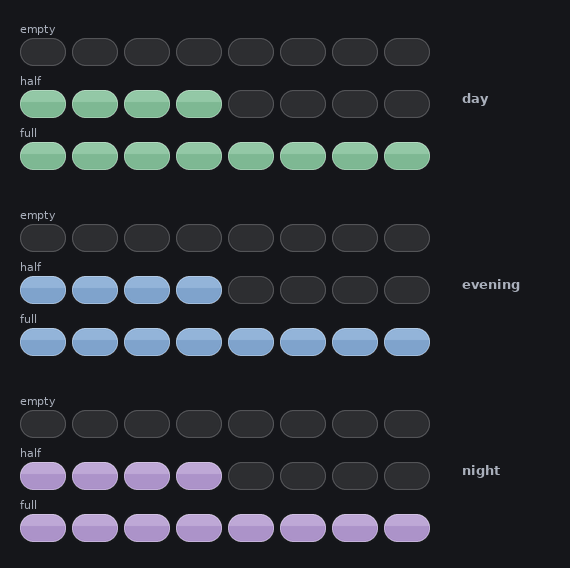
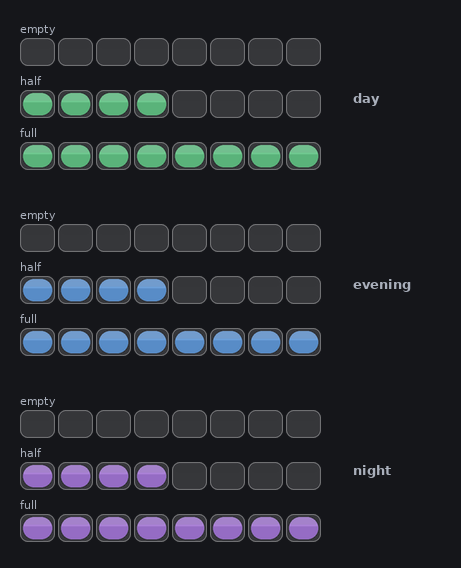
palette: v2 — more saturated fills, glassier glass, shared shape tokens
User review of v1: pills closer and more square, colours more vivid,
look glassier. Shape moves into tokens.json as ratios (aspect, gap,
corner, inset) so all platforms share one design. Preview renderer
now mirrors the platform renderers exactly (inset fill capsule, sheen
band, specular streak) and is driven by the same tokens.

diff --git a/palette/render_preview.py b/palette/render_preview.py
@@ -1,24 +1,33 @@
 #!/usr/bin/env python3
 """Render Thirds palette previews from tokens.json for visual review.
 
-Draws each period's 8-section bar in three fill states (empty, half, full),
-on both a dark and a light background, using the glass/fill/sheen tokens.
+Mirrors exactly how the platform widgets draw: glass pill (body + hairline
+rim, rounded by shape.cornerRatio) with an inset rounded fill capsule,
+sheen band on the fill's top and a specular streak on every pill.
+Geometry comes from tokens.json "shape" ratios (aspect, gapRatio,
+cornerRatio, fillInsetRatio), so this preview *is* the design under review.
+
+Draws each period's 8-section bar in three fill states (empty, half, full)
+on both a dark and a light background.
 Output: palette/preview-dark.png and palette/preview-light.png
 """
 import json
 import re
 from pathlib import Path
-from PIL import Image, ImageDraw, ImageFont
+from PIL import Image, ImageChops, ImageDraw, ImageFont
 
 HERE = Path(__file__).parent
 TOKENS = json.loads((HERE / "tokens.json").read_text())
+SHAPE = TOKENS["shape"]
 
 SECTIONS = 8
 PILL_H = 28
-PILL_W = 46
-GAP = 6
+PILL_W = round(PILL_H * SHAPE["aspect"])
+GAP = max(1, round(PILL_W * SHAPE["gapRatio"]))
+RADIUS = round(PILL_H * SHAPE["cornerRatio"])
+INSET = round(PILL_H * SHAPE["fillInsetRatio"])
 PAD = 20
-ROW_GAP = 30            # vertical gap between fill-state rows
+ROW_GAP = 30
 LABEL_H = 18
 
 BG = {"dark": "#15161A", "light": "#EDF0F4"}
@@ -44,37 +53,43 @@ def font(size, bold=False):
     return ImageFont.load_default()
 
 
-def make_pill(pal, glass, hair, fill, sheen, frac):
-    """Render one section pill at scale=3 as an RGBA image, then downscale.
-
-    frac: 0 = empty glass, 1 = fully filled, fraction = partial from left.
-    """
-    s = 3  # supersample factor
+def make_pill(glass, hair, fill, sheen, edge, frac):
+    """One pill at 3x supersampling, drawn like the platform renderers."""
+    s = 3
     W, H = PILL_W * s, PILL_H * s
-    r = (PILL_H // 2) * s
+    r = RADIUS * s
+    inset = INSET * s
     im = Image.new("RGBA", (W, H), (0, 0, 0, 0))
     d = ImageDraw.Draw(im, "RGBA")
     box = [0, 0, W - 1, H - 1]
 
-    # base glass
+    # glass body + hairline rim
     d.rounded_rectangle(box, radius=r, fill=glass, outline=hair, width=1 * s)
 
+    # inset fill capsule (left-anchored, grows with frac)
     if frac > 0:
-        # fill region (left portion), clipped to the pill
-        fill_w = int(W * min(frac, 1.0))
-        clip = Image.new("L", (W, H), 0)
-        ImageDraw.Draw(clip).rounded_rectangle(box, radius=r, fill=255)
-        colour = Image.new("RGBA", (W, H), (0, 0, 0, 0))
-        cd = ImageDraw.Draw(colour)
-        cd.rectangle([0, 0, fill_w, H], fill=fill)
-        # glassy sheen band over the top ~42% of the filled area
-        cd.rectangle([0, 0, fill_w, int(H * 0.42)], fill=sheen)
-        im.paste(colour, (0, 0), clip)
+        inner_w = (W - 2 * inset) * min(frac, 1.0)
+        inner = [inset, inset, inset + max(inner_w, inset), H - inset]
+        ir = min((H - 2 * inset) // 2, inner_w / 2)
+        cd = ImageDraw.Draw(im, "RGBA")
+        cd.rounded_rectangle(inner, radius=ir, fill=fill)
 
-        # edge line at the leading fill boundary
-        d.rounded_rectangle(box, radius=r, outline=None)
-        if 0 < frac < 1 and fill_w < W - s:
-            d.line([fill_w, s, fill_w, H - s], fill=sheen, width=1 * s)
+        # sheen band on the fill capsule's top (alpha-composite, clipped)
+        band_h = int((H - 2 * inset) * SHAPE["sheenFraction"])
+        band = Image.new("RGBA", (W, H), (0, 0, 0, 0))
+        ImageDraw.Draw(band).rectangle([0, 0, W, inset + band_h], fill=sheen)
+        clip = Image.new("L", (W, H), 0)
+        ImageDraw.Draw(clip).rounded_rectangle(inner, radius=ir, fill=255)
+        band.putalpha(ImageChops.multiply(band.split()[3], clip))
+        im = Image.alpha_composite(im, band)
+
+    # specular streak near the top inside every pill (glass cue)
+    spec = Image.new("RGBA", (W, H), (0, 0, 0, 0))
+    sd = ImageDraw.Draw(spec)
+    sbox = [inset, inset, W - inset - 1, inset + (H - 2 * inset) // 3]
+    sd.rounded_rectangle(sbox, radius=(H - 2 * inset) // 3,
+                         fill=(255, 255, 255, 22))
+    im.paste(spec, (0, 0), spec)
 
     im = im.resize((PILL_W, PILL_H), Image.LANCZOS)
     return im
@@ -87,12 +102,13 @@ def draw_state_row(img, origin, scheme, appearance, state_label, fill_state):
     hair = parse_rgba(TOKENS["glass"][appearance]["hairline"])
     fill = hexrgb(pal["fill"]) + (255,)
     sheen = hexrgb(pal["sheen"]) + (255,)
+    edge = hexrgb(pal["edge"]) + (255,)
 
     d = ImageDraw.Draw(img, "RGBA")
     d.text((x, y - LABEL_H + 2), state_label, fill=LABEL_COL[appearance], font=font(11))
     for i in range(SECTIONS):
         frac = max(0.0, min(1.0, fill_state - i))
-        pill = make_pill(pal, glass, hair, fill, sheen, frac)
+        pill = make_pill(glass, hair, fill, sheen, edge, frac)
         img.paste(pill, (x + i * (PILL_W + GAP), y), pill)
 
 
@@ -102,7 +118,7 @@ def render(appearance, filename):
 
     bar_w = SECTIONS * PILL_W + (SECTIONS - 1) * GAP
     block_h = len(states) * (LABEL_H + PILL_H + 6)
-    W = PAD * 2 + bar_w + 120          # extra right gutter for scheme label
+    W = PAD * 2 + bar_w + 120
     H = PAD * 2 + len(schemes) * block_h + (len(schemes) - 1) * ROW_GAP
 
     img = Image.new("RGBA", (W, H), hexrgb(BG[appearance]) + (255,))
@@ -114,7 +130,6 @@ def render(appearance, filename):
         for ci, (label, state) in enumerate(states):
             oy = top + ci * (LABEL_H + PILL_H + 6) + LABEL_H
             draw_state_row(img, (PAD, oy), scheme, appearance, label, state)
-        # right-aligned scheme header, vertically centred on the block
         d.text((W - 108, top + block_h // 2 - 8), scheme, fill=LABEL_COL[appearance], font=hf)
 
     img.convert("RGB").save(HERE / filename)
